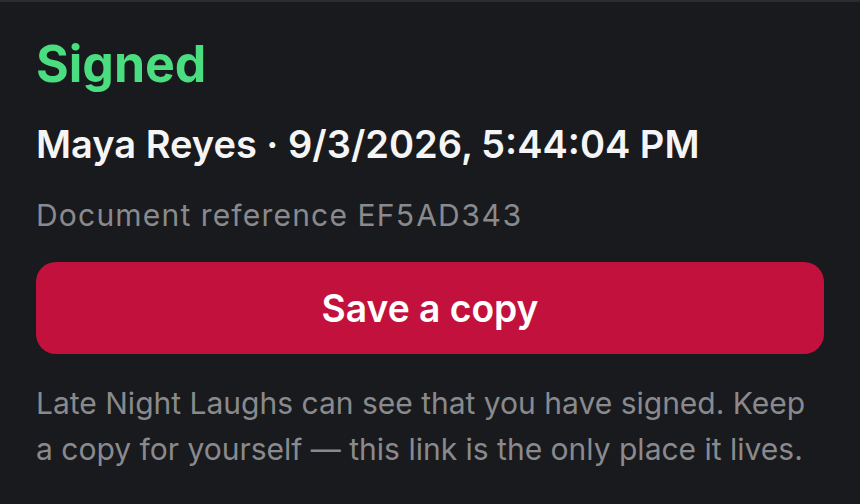
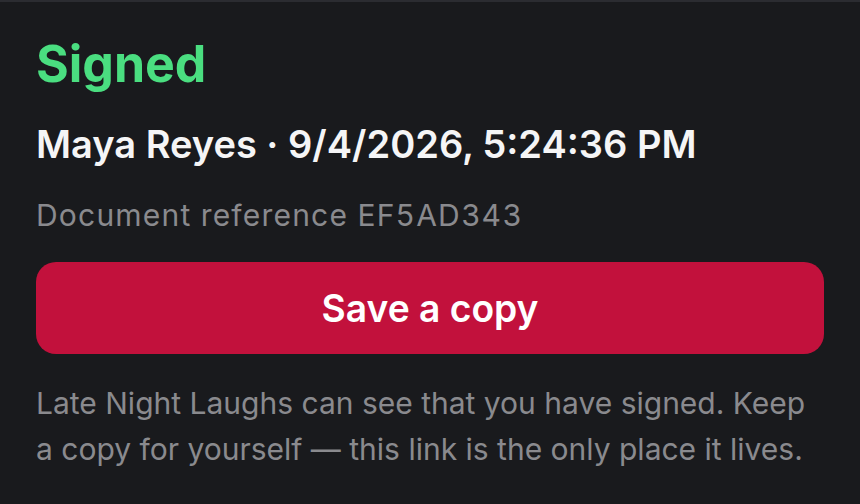
Record the Run Show hero again, without needing ffmpeg (#239)
The README's animated hero was dropped last time round because the committed
one was months stale — gold where the app is crimson, a navigation bar it no
longer has. A still went in as a stopgap, but a still cannot show the thing
live mode is for: the clock moving and the running order advancing under it.

The obvious route did not work. Playwright records WebM, and the ffmpeg it
ships is built for exactly that and nothing else — no gif encoder, and none
of the fps or palette filters a decent GIF needs. Rather than ask everyone
who regenerates the screenshots to install a full ffmpeg, the frames are now
ordinary screenshots and gifenc encodes them in-process. The browser decodes
each PNG through a canvas on the way, which saves a decoder dependency for
the sake of one image. The script needs nothing installed beyond its own
dependencies.

One palette is shared across the clip rather than one per frame: the screen
is mostly a fixed dark interface, so per-frame palettes both inflate the file
and make the background shimmer.

The clip holds on the running clock, then advances twice. Verified by playing
it back: 30 frames, loops forever, and the frames genuinely differ — it opens
on cue 1 of 6 reading ON TIME and reaches cue 3 of 6 reading AHEAD, with the
performer and the up-next line following along. 842 KB.

The still stays, in the row below, where it can sit beside More and Contracts
without the animation competing with them.

Changed region(s): [[0.3628, 0.2381, 0.8163, 0.3274]]

diff --git a/README.md b/README.md
@@ -47,10 +47,10 @@
 Try it live at **[icanrunashow.com](https://icanrunashow.com)**. These are generated with `npm run screenshots` (see [docs/screenshots/CAPTURE.md](docs/screenshots/CAPTURE.md)).
 
 <p align="center">
-  <img src="docs/screenshots/run-show.png" width="280" alt="Run Show live mode" />
+  <img src="docs/screenshots/run-show.gif" width="300" alt="Run Show live mode — the clock running and the running order advancing" />
 </p>
 <p align="center">
-  <sub><b>Run Show</b> live mode — per-cue countdown, on-time drift, and a soundboard button per performer</sub>
+  <sub><b>Run Show</b> live mode — the cue countdown running, the drift indicator moving from on-time to ahead, and the running order advancing</sub>
 </p>
 
 <p align="center">
@@ -72,19 +72,20 @@ Try it live at **[icanrunashow.com](https://icanrunashow.com)**. These are gener
 </p>
 
 <p align="center">
+  <img src="docs/screenshots/run-show.png" width="32%" alt="Run Show live mode" />
   <img src="docs/screenshots/more.png" width="32%" alt="More — the between-shows pages" />
   <img src="docs/screenshots/contracts.png" width="32%" alt="Contracts — who has signed and who has not" />
-  <img src="docs/screenshots/stage-remote.png" width="32%" alt="Settings — stage remote and storage" />
 </p>
 <p align="center">
-  <sub><b>More</b> — the between-shows pages, off a five-tab bar &nbsp;·&nbsp; <b>Contracts</b> — one signed, one still waiting, each with the hash of the document agreed to &nbsp;·&nbsp; <b>Stage remote &amp; storage</b> — a paired clicker, and the sweep for unreachable uploads</sub>
+  <sub><b>Run Show</b> — the clock, the soundboard, and the lineup &nbsp;·&nbsp; <b>More</b> — the between-shows pages, off a five-tab bar &nbsp;·&nbsp; <b>Contracts</b> — one signed, one still waiting, each with the hash of the document agreed to</sub>
 </p>
 
 <p align="center">
-  <img src="docs/screenshots/signing-receipt.png" width="46%" alt="What the signer sees once they have signed" />
+  <img src="docs/screenshots/stage-remote.png" width="32%" alt="Settings — stage remote and storage" />
+  <img src="docs/screenshots/signing-receipt.png" width="42%" alt="What the signer sees once they have signed" />
 </p>
 <p align="center">
-  <sub>What the <b>signer</b> sees — no account, no app, and a document reference they can keep. The producer's list flips to signed on its own.</sub>
+  <sub><b>Stage remote &amp; storage</b> — a paired clicker for running sound from the stage, and the sweep for uploads nothing points at any more &nbsp;·&nbsp; <b>What the signer sees</b> — no account, no app, and a document reference they keep</sub>
 </p>
 
 ---

diff --git a/docs/screenshots/CAPTURE.md b/docs/screenshots/CAPTURE.md
@@ -37,6 +37,9 @@ it may populate an empty workspace.
 | `HEADLESS` | `true` | `false` to watch it run |
 | `PW_CHROMIUM_PATH` | unset | A Chromium already on disk, for sandboxes that cannot download Playwright's pinned build |
 
+Nothing else is needed — no ffmpeg, no image tooling. The animated hero is
+encoded in-process.
+
 ## What gets captured
 
 Everything is shot at 430×932 with `deviceScaleFactor: 2`, so the images are @2x
@@ -49,6 +52,7 @@ and the app is in the phone layout it is designed around.
 | `schedule.png` | The run-of-show builder |
 | `performer-profile.png` | A performer's profile |
 | `run-show.png` | Full-screen live mode |
+| `run-show.gif` | The README's hero — live mode running, 30 frames at 5 fps |
 | `rolodex.png` | The Rolodex, with its show-type-aware wording |
 | `settings.png` | Settings — theme, brand, and the folded workspace details |
 | `more.png` | The More hub |
@@ -61,10 +65,16 @@ and the app is in the phone layout it is designed around.
 - **`signing-receipt.png` is an element shot, not a full page.** Headless
   Chromium does not reliably paint a PDF inside an `<object>`, and a blank
   document pane above the receipt would say something untrue about the app.
-- **There is no animated demo.** The README's hero used to be a GIF, dropped
-  when it went stale — it still showed a gold accent and a navigation bar the
-  app no longer has. Re-recording one is a genuine improvement; a screenshot of
-  an app that no longer exists is not.
+- **The animated hero is built from screenshots, not from video.** Playwright's
+  recorder produces WebM, and the ffmpeg it ships is built only for that — no
+  gif encoder, and none of the palette filters a decent GIF needs. So the
+  frames are ordinary screenshots and [`gifenc`](https://github.com/mattdesl/gifenc)
+  encodes them here, which means the script needs nothing installed beyond its
+  own dependencies. The browser decodes each PNG through a canvas, which saves
+  a decoder dependency for the sake of one image.
+- **One palette is shared across the clip.** The screen is mostly a fixed dark
+  interface; a palette per frame both inflates the file and makes the
+  background shimmer between frames.
 - **There is no viewer-link shot.** Capturing it needs the show's viewer token,
   which only exists once the live screen has published, and automating that was
   not worth the coupling. Worth adding if the flow settles.
